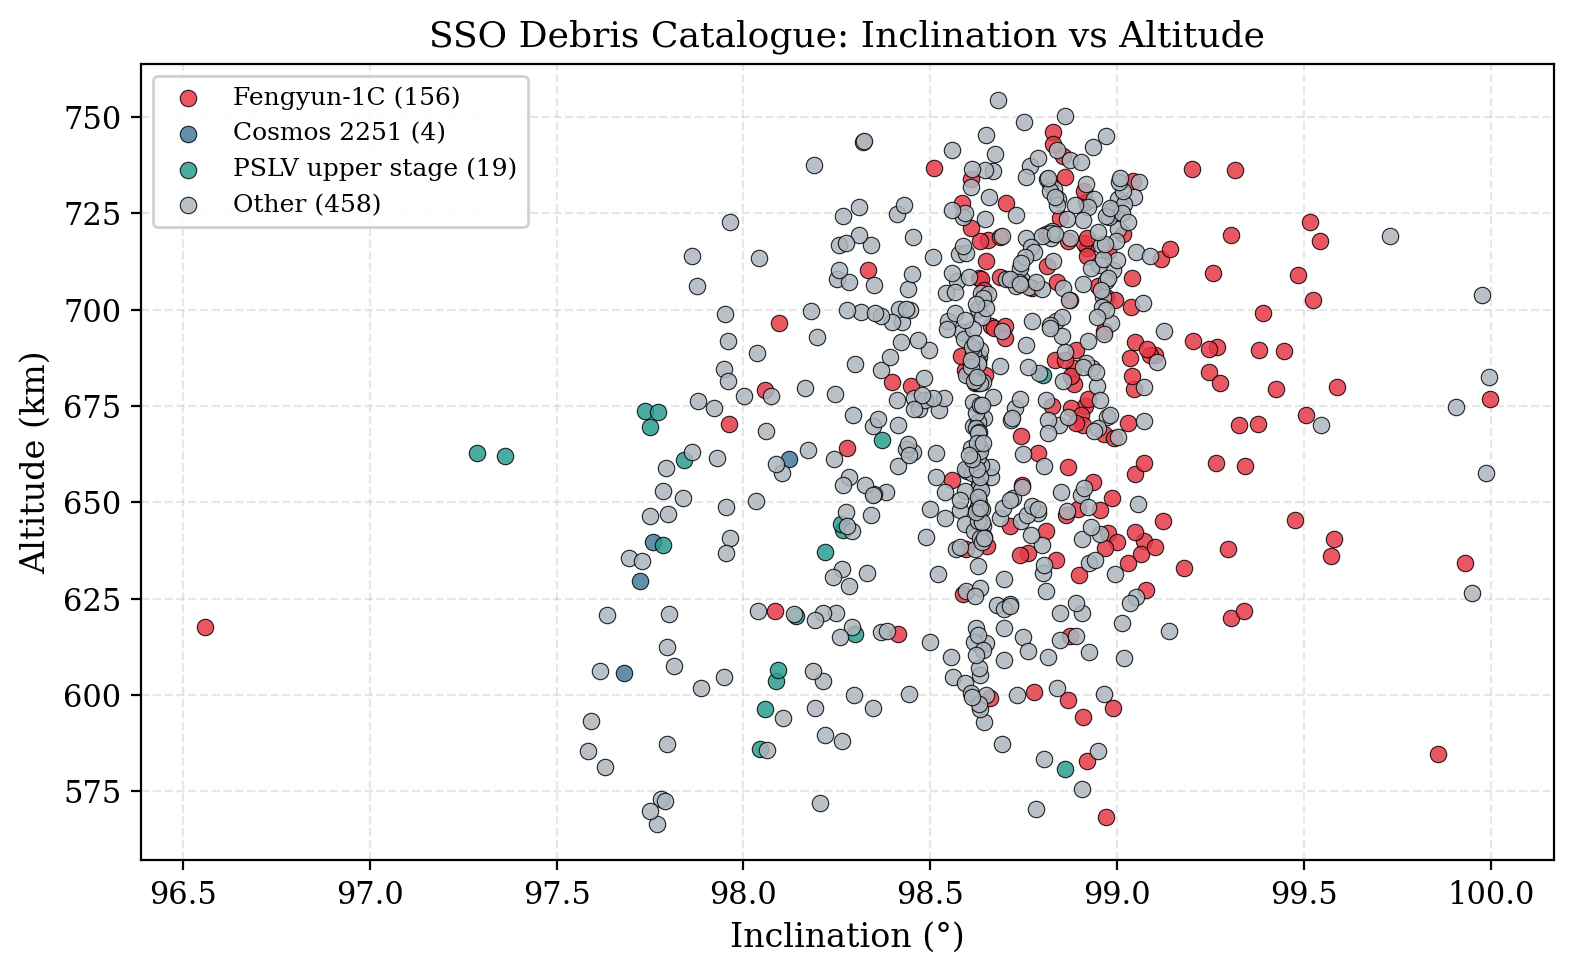
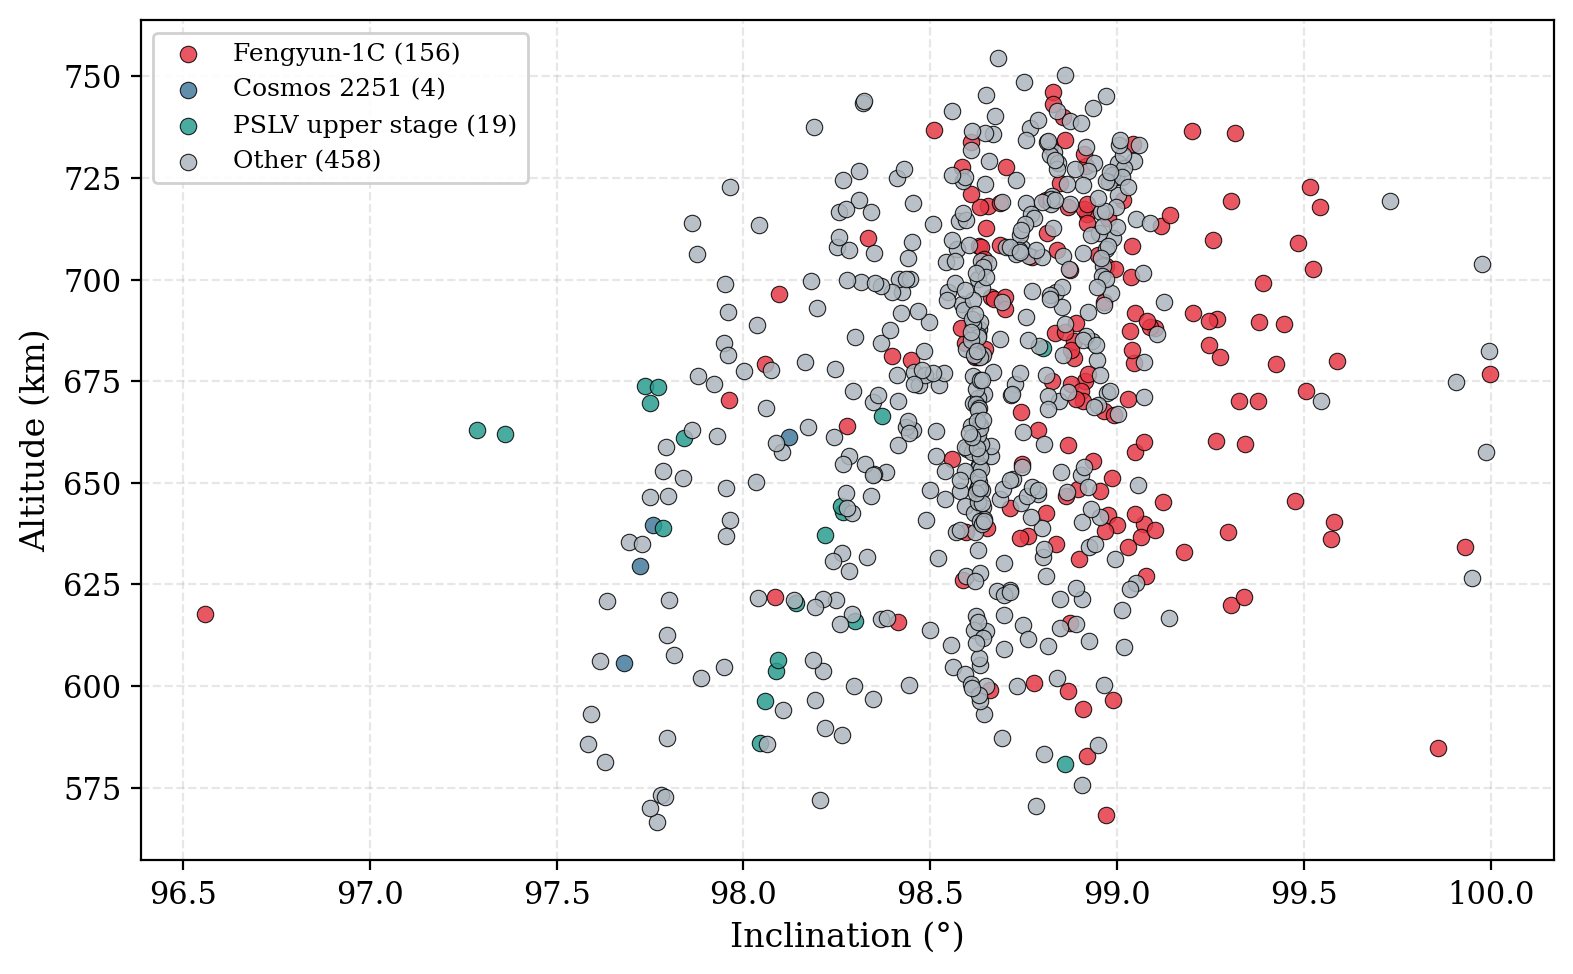
Updated plots no titles

diff --git a/plots/debrisscatter.py b/plots/debrisscatter.py
@@ -61,7 +61,6 @@ for source, colour in source_colours.items():
 
 ax.set_xlabel('Right Ascension of Ascending Node (°)')
 ax.set_ylabel('Altitude (km)')
-ax.set_title('SSO Debris Catalogue: Spatial Distribution')
 ax.set_xlim(-5, 365)
 ax.set_ylim(500, 800)
 ax.legend(loc='lower left', framealpha=0.9)
@@ -87,7 +86,6 @@ for source, colour in source_colours.items():
 
 ax2.set_xlabel('Inclination (°)')
 ax2.set_ylabel('Altitude (km)')
-ax2.set_title('SSO Debris Catalogue: Inclination vs Altitude')
 ax2.legend(loc='upper left', framealpha=0.9)
 ax2.grid(True, alpha=0.3, linestyle='--')
 
